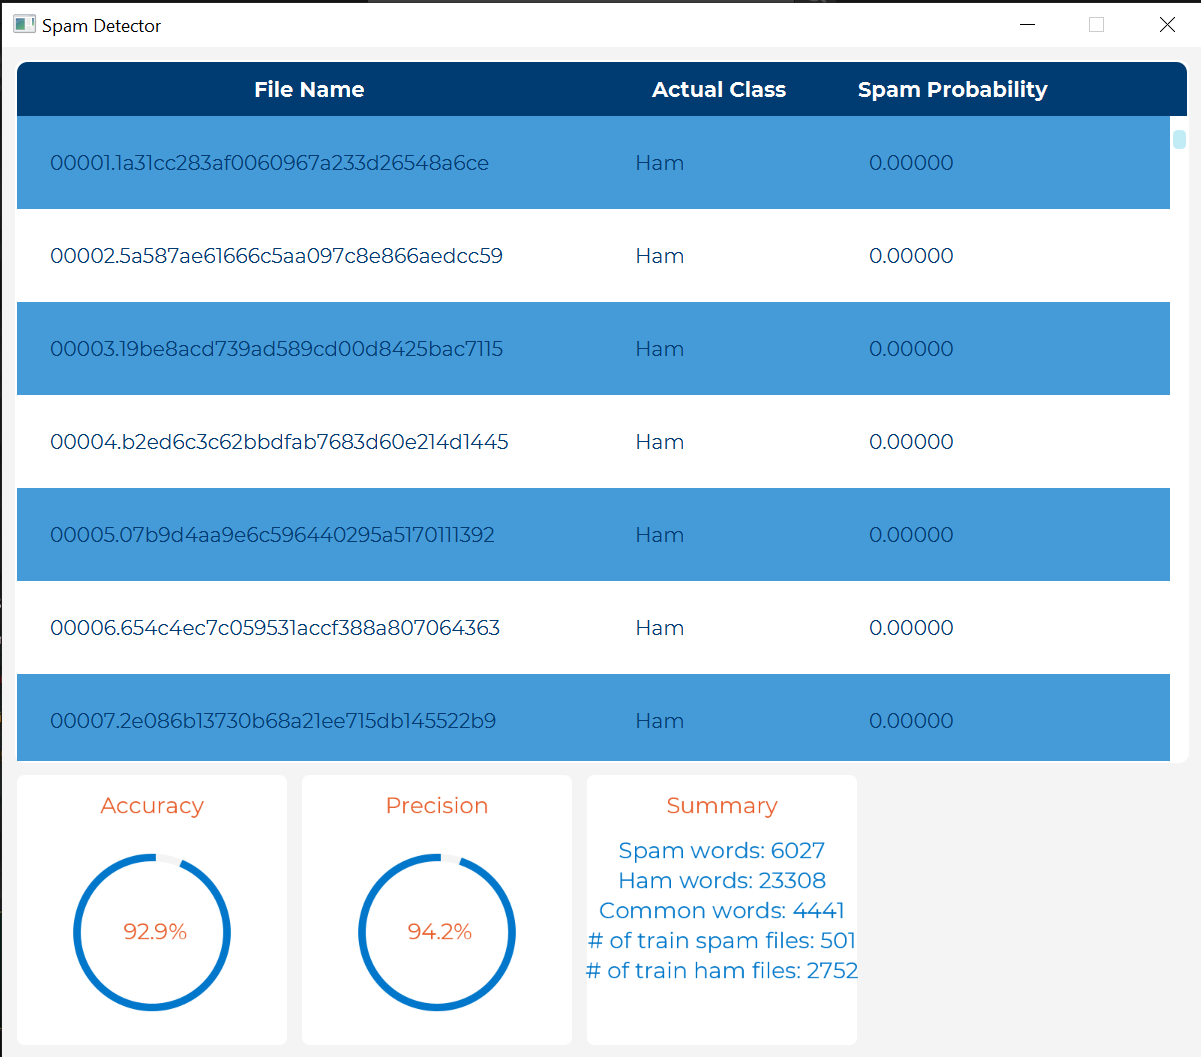
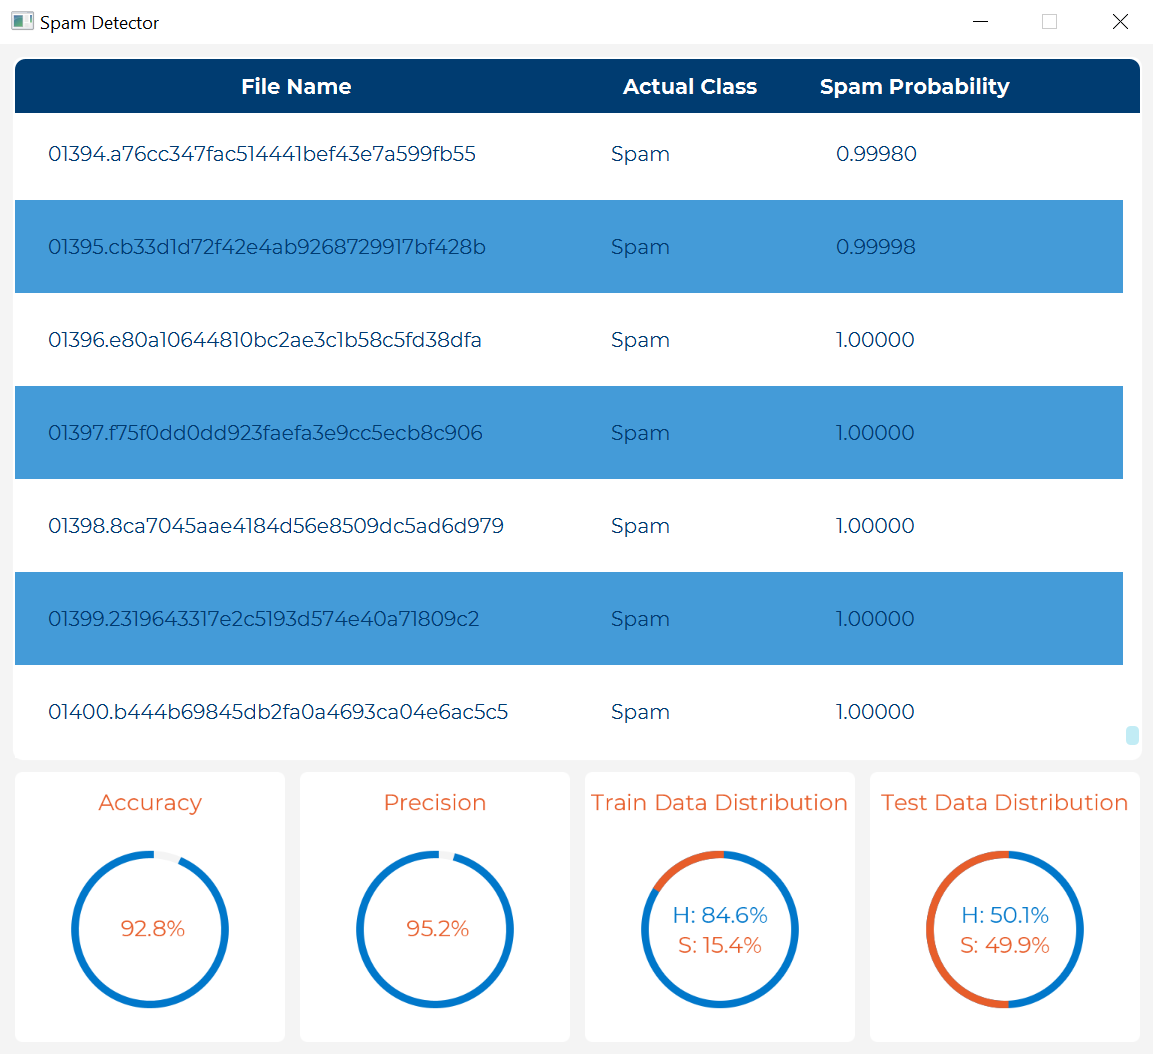
Improved detection

diff --git a/src/SpamDetection/Controller.java b/src/SpamDetection/Controller.java
@@ -33,7 +33,9 @@ public class Controller {
     @FXML public TableView table;
     @FXML public TableColumn<TestFile, String> fileName, actualClass, spamProbability;
     @FXML public VBox container;
-    double accuracy = 0, finalAccuracy = 0, precision = 0, finalPrecision = 0, frameIndex = 0;
+    double accuracy = 0, finalAccuracy = 0, precision = 0, finalPrecision = 0;
+    double trainDistribution = 0, finalTrainDistribution = 0, testDistribution = 0, finalTestDistribution = 0;
+    double frameIndex = 0;
     ExecutorService executorService = Executors.newFixedThreadPool(1);
 
     /**
@@ -82,16 +84,20 @@ public class Controller {
         // On success, show statistics
         detection.setOnSucceeded(succeededEvent -> {
             // Calculate accuracy and precision
-            finalAccuracy = (double) (detection.truePositives + detection.trueNegatives) / (detection.testHamFolder.listFiles().length + detection.testSpamFolder.listFiles().length);
+            finalAccuracy = (double) (detection.truePositives + detection.trueNegatives) / (detection.getTestHamLength() + detection.getTestSpamLength());
             finalPrecision = (double) detection.truePositives / (detection.truePositives + detection.falsePositive);
+            finalTrainDistribution = (double) detection.getTrainSpamLength() / (detection.getTrainHamLength() + detection.getTrainSpamLength());
+            finalTestDistribution = (double) detection.getTestSpamLength() / (detection.getTestHamLength() + detection.getTestSpamLength());
 
-            // Animation for showing the accuracy and precision
+            // Animation for showing the statistics
             Timeline timeline = new Timeline();
             timeline.setCycleCount(40);
             EventHandler<ActionEvent> eventHandler = event -> {
                 gc.clearRect(0, 0, canvas.getWidth(), canvas.getHeight()); // Clear the canvas
                 accuracy += (finalAccuracy * 100 - accuracy) / (40 - frameIndex); // Slowly increment the display accuracy to the final accuracy
                 precision += (finalPrecision * 100 - precision) / (40 - frameIndex); // Slowly increment the display precision to the final precision
+                trainDistribution += (finalTrainDistribution * 100 - trainDistribution) / (40 - frameIndex); // Slowly increment the display train distribution to the final train distribution
+                testDistribution += (finalTestDistribution * 100 - testDistribution) / (40 - frameIndex); // Slowly increment the display test distribution to the final test distribution
                 frameIndex++; // Increment the frame index
 
                 // Draw background for the statistics
@@ -99,6 +105,7 @@ public class Controller {
                 gc.fillRoundRect(10, 10, 180, 180, 10, 10);
                 gc.fillRoundRect(200, 10, 180, 180, 10, 10);
                 gc.fillRoundRect(390, 10, 180, 180, 10, 10);
+                gc.fillRoundRect(580, 10, 180, 180, 10, 10);
 
                 // Display accuracy, precision and title of the statistics
                 gc.setFill(Color.web("#E75D2A"));
@@ -106,7 +113,8 @@ public class Controller {
                 gc.fillText(String.format("%.1f", precision) + "%", 292, 114);
                 gc.fillText("Accuracy", 100,30);
                 gc.fillText("Precision", 290,30);
-                gc.fillText("Summary", 480,30);
+                gc.fillText("Train Data Distribution", 480,30);
+                gc.fillText("Test Data Distribution", 670,30);
 
                 // Draw full gray circle
                 gc.setStroke(Color.web("#F4F4F4"));
@@ -120,12 +128,17 @@ public class Controller {
                 gc.strokeArc(50, 65, 100, 100, 90, accuracy * 3.6, ArcType.OPEN);
                 gc.strokeArc(240, 65, 100, 100, 90, precision * 3.6, ArcType.OPEN);
 
-                // Display summary
-                gc.fillText("Spam words: " + detection.countSpamWords(), 480, 60);
-                gc.fillText("Ham words: " + detection.countHamWords(), 480, 80);
-                gc.fillText("Common words: " + detection.getCommonWords(), 480, 100);
-                gc.fillText("# of train spam files: " + detection.trainSpamFolder.listFiles().length, 480, 120);
-                gc.fillText("# of train ham files: " + (detection.trainHamFolder.listFiles().length + detection.trainHamFolder2.listFiles().length), 480, 140);
+                // Display distribution
+                gc.strokeOval(430, 65, 100, 100);
+                gc.fillText("H: " + String.format("%.1f", 100 - trainDistribution) + "%",480, 105);
+                gc.strokeOval(620, 65, 100, 100);
+                gc.fillText("H: " + String.format("%.1f", 100 - testDistribution) + "%",670, 105);
+                gc.setFill(Color.web("#E75D2A"));
+                gc.setStroke(Color.web("#E75D2A"));
+                gc.strokeArc(430, 65, 100, 100, 90, trainDistribution * 3.6, ArcType.OPEN);
+                gc.fillText("S: " + String.format("%.1f", trainDistribution) + "%",480, 125);
+                gc.strokeArc(620, 65, 100, 100, 90, testDistribution * 3.6, ArcType.OPEN);
+                gc.fillText("S: " + String.format("%.1f", testDistribution) + "%",670, 125);
             };
             KeyFrame keyFrame = new KeyFrame(Duration.millis(50), eventHandler);
             timeline.getKeyFrames().add(keyFrame);

diff --git a/src/SpamDetection/SpamDetection.java b/src/SpamDetection/SpamDetection.java
@@ -51,8 +51,9 @@ public class SpamDetection extends Task {
         testSpamFolder = new File(mainDirectory.getPath() + "/test/spam");
 
         // Calculate spam probability
+        int trainSpamLength = getTrainSpamLength(), trainHamLength = getTrainHamLength();
         for (File file : testHamFolder.listFiles()) {
-            double spamProbability = getSpamProbability(file, trainSpamFolder.listFiles().length, trainHamFolder.listFiles().length + trainHamFolder2.listFiles().length);
+            double spamProbability = getSpamProbability(file, trainSpamLength, trainHamLength);
             TestFile testFile = new TestFile(file.getName(), spamProbability, "Ham");
             if (spamProbability < 0.5) {
                 trueNegatives++;
@@ -63,7 +64,7 @@ public class SpamDetection extends Task {
         }
 
         for (File file : testSpamFolder.listFiles()) {
-            double spamProbability = getSpamProbability(file, trainSpamFolder.listFiles().length, trainHamFolder.listFiles().length + trainHamFolder2.listFiles().length);
+            double spamProbability = getSpamProbability(file, trainSpamLength, trainHamLength);
             TestFile testFile = new TestFile(file.getName(), spamProbability, "Spam");
             if (spamProbability >= 0.5) {
                 truePositives++;
@@ -94,12 +95,16 @@ public class SpamDetection extends Task {
                 double spamFreq = (trainSpamFreq.get(word) == null) ? 0 : trainSpamFreq.get(word);
                 double hamFreq = (trainHamFreq.get(word) == null) ? 0 : trainHamFreq.get(word);
 
-                // Ignore word if it doesn't occur during training phase
+                // Check if the word appears in training phase
                 if (spamFreq != 0 && hamFreq != 0) {
                     // Calculate probability, Pr(S|W)
                     double spamContainsWord = spamFreq / spamLength;
                     double hamContainsWord = hamFreq / hamLength;
                     double spamProbability = spamContainsWord / (spamContainsWord + hamContainsWord);
+                    spamProbability = (2 + (spamFreq + hamFreq) * spamProbability) / (4 + spamFreq + hamFreq); // Corrected probability for rarity of the word
+                    n += Math.log(1 - spamProbability) - Math.log(spamProbability);
+                } else {
+                    double spamProbability = 0.5;
                     n += Math.log(1 - spamProbability) - Math.log(spamProbability);
                 }
             }
@@ -152,39 +157,39 @@ public class SpamDetection extends Task {
     }
 
     /**
-     * Gets common words between spam and ham files.
+     * Gets the number train spam files.
      *
-     * @return the number of common words
+     * @return the number train spam files
      */
-    public int getCommonWords() {
-        int count = 0;
-        Set<String> words = trainHamFreq.keySet();
-
-        for (String key : words) {
-            // Check if the ham word exists in spam
-            if (trainSpamFreq.get(key) != null) {
-                count++;
-            }
-        }
-        return count;
+    public int getTrainSpamLength() {
+        return trainSpamFolder.listFiles().length;
     }
 
     /**
-     * Get number of spam words.
+     * Gets the number train ham files.
      *
-     * @return number of spam words
+     * @return the number train ham files
      */
-    public int countSpamWords() {
-        return trainSpamFreq.size();
+    public int getTrainHamLength() {
+        return trainHamFolder.listFiles().length + trainHamFolder2.listFiles().length;
     }
 
     /**
-     * Get number of ham words.
+     * Gets the number test spam files.
      *
-     * @return number of ham words
+     * @return the number test spam files
      */
-    public int countHamWords() {
-        return trainHamFreq.size();
+    public int getTestSpamLength() {
+        return testSpamFolder.listFiles().length;
+    }
+
+    /**
+     * Gets the number test ham files.
+     *
+     * @return the number test ham files
+     */
+    public int getTestHamLength() {
+        return testHamFolder.listFiles().length;
     }
 
     @Override

diff --git a/src/SpamDetection/Main.java b/src/SpamDetection/Main.java
@@ -20,7 +20,7 @@ public class Main extends Application {
         primaryStage.setTitle("Spam Detector");
         primaryStage.setResizable(false);
         root.getStylesheets().add("https://fonts.googleapis.com/css2?family=Montserrat:wght@400;700"); // Load font
-        primaryStage.setScene(new Scene(root, 800, 675));
+        primaryStage.setScene(new Scene(root, 770, 675));
         primaryStage.show();
 
         controller.init(primaryStage);

diff --git a/README.md b/README.md
@@ -1,1 +1,47 @@
-# CSCI2020_Assigment1
+# CSCI2020 Assignment 1
+
+An application to detect spam using Naive Bayes spam filtering
+
+![Preview](./SpamDetection.png?raw=true)
+
+# Interface improvements
+- Changed the font to `Montserrat`
+- Color scheme to match Ontario Tech University colors
+- A visual representation of the accuracy and precision
+- Shows distribution of ham(H) files and spam(S) files in training and testing phase
+
+# Model features
+
+### Naive Bayes spam filtering
+#### First computation: 
+  
+  ![Equation](https://latex.codecogs.com/svg.latex?Pr(W_i|S)=\frac{Pr(W_i|S)}{Pr(S|W_i)&space;&plus;&space;Pr(W_i|H)})
+
+#### Second Computation:
+
+  ![Equation](https://latex.codecogs.com/svg.latex?\eta&space;=&space;\sum_{i&space;=&space;1}^{N}[\ln&space;(1-Pr(S|W_i))-ln(Pr(S|W_i))])
+
+  ![Equation](https://latex.codecogs.com/svg.latex?Pr(S|F)&space;=&space;\frac{1}{1&plus;e^\eta})
+
+#### Third Computation (Improved detection):
+  
+  ![Equation](https://latex.codecogs.com/svg.latex?Pr'(S|W_i)=&space;\frac{s&space;\cdot&space;Pr(S)&space;&plus;&space;n&space;\cdot&space;Pr(S|W_i)}{s&plus;n})
+
+  Where $Pr(S) = 0.5$, $s = 4$ and $n = $ number of files that have $W_i$
+#### Stop words (Improved detection):
+Does not evaluate stop words specified in `stopwords.txt`,
+
+# Build Instructions for IntelliJ
+### Prerequisites
+- JDK 15.X.X+
+- JavaFX 15.X.X+
+
+Make sure to add the JavaFX library (`File -> Project Structure -> Libraries`) and add VM options (`Run -> Edit Configurations`) to IntelliJ
+
+(VM options: `--module-path /path/to/javafx/sdk --add-modules javafx.controls,javafx.fxml`)
+
+# Reference
+- https://www.jetbrains.com/help/idea/javafx.html#create-project - Reference to running JavaFX projects on IntelliJ
+- https://towardsdatascience.com/email-spam-detection-1-2-b0e06a5c0472 - Reference to data distributions and stop words
+- https://gist.github.com/sebleier/554280 - Reference to stop words list
+- https://en.wikipedia.org/wiki/Naive_Bayes_spam_filtering#cite_note-14 - Reference to third computation for rare words
